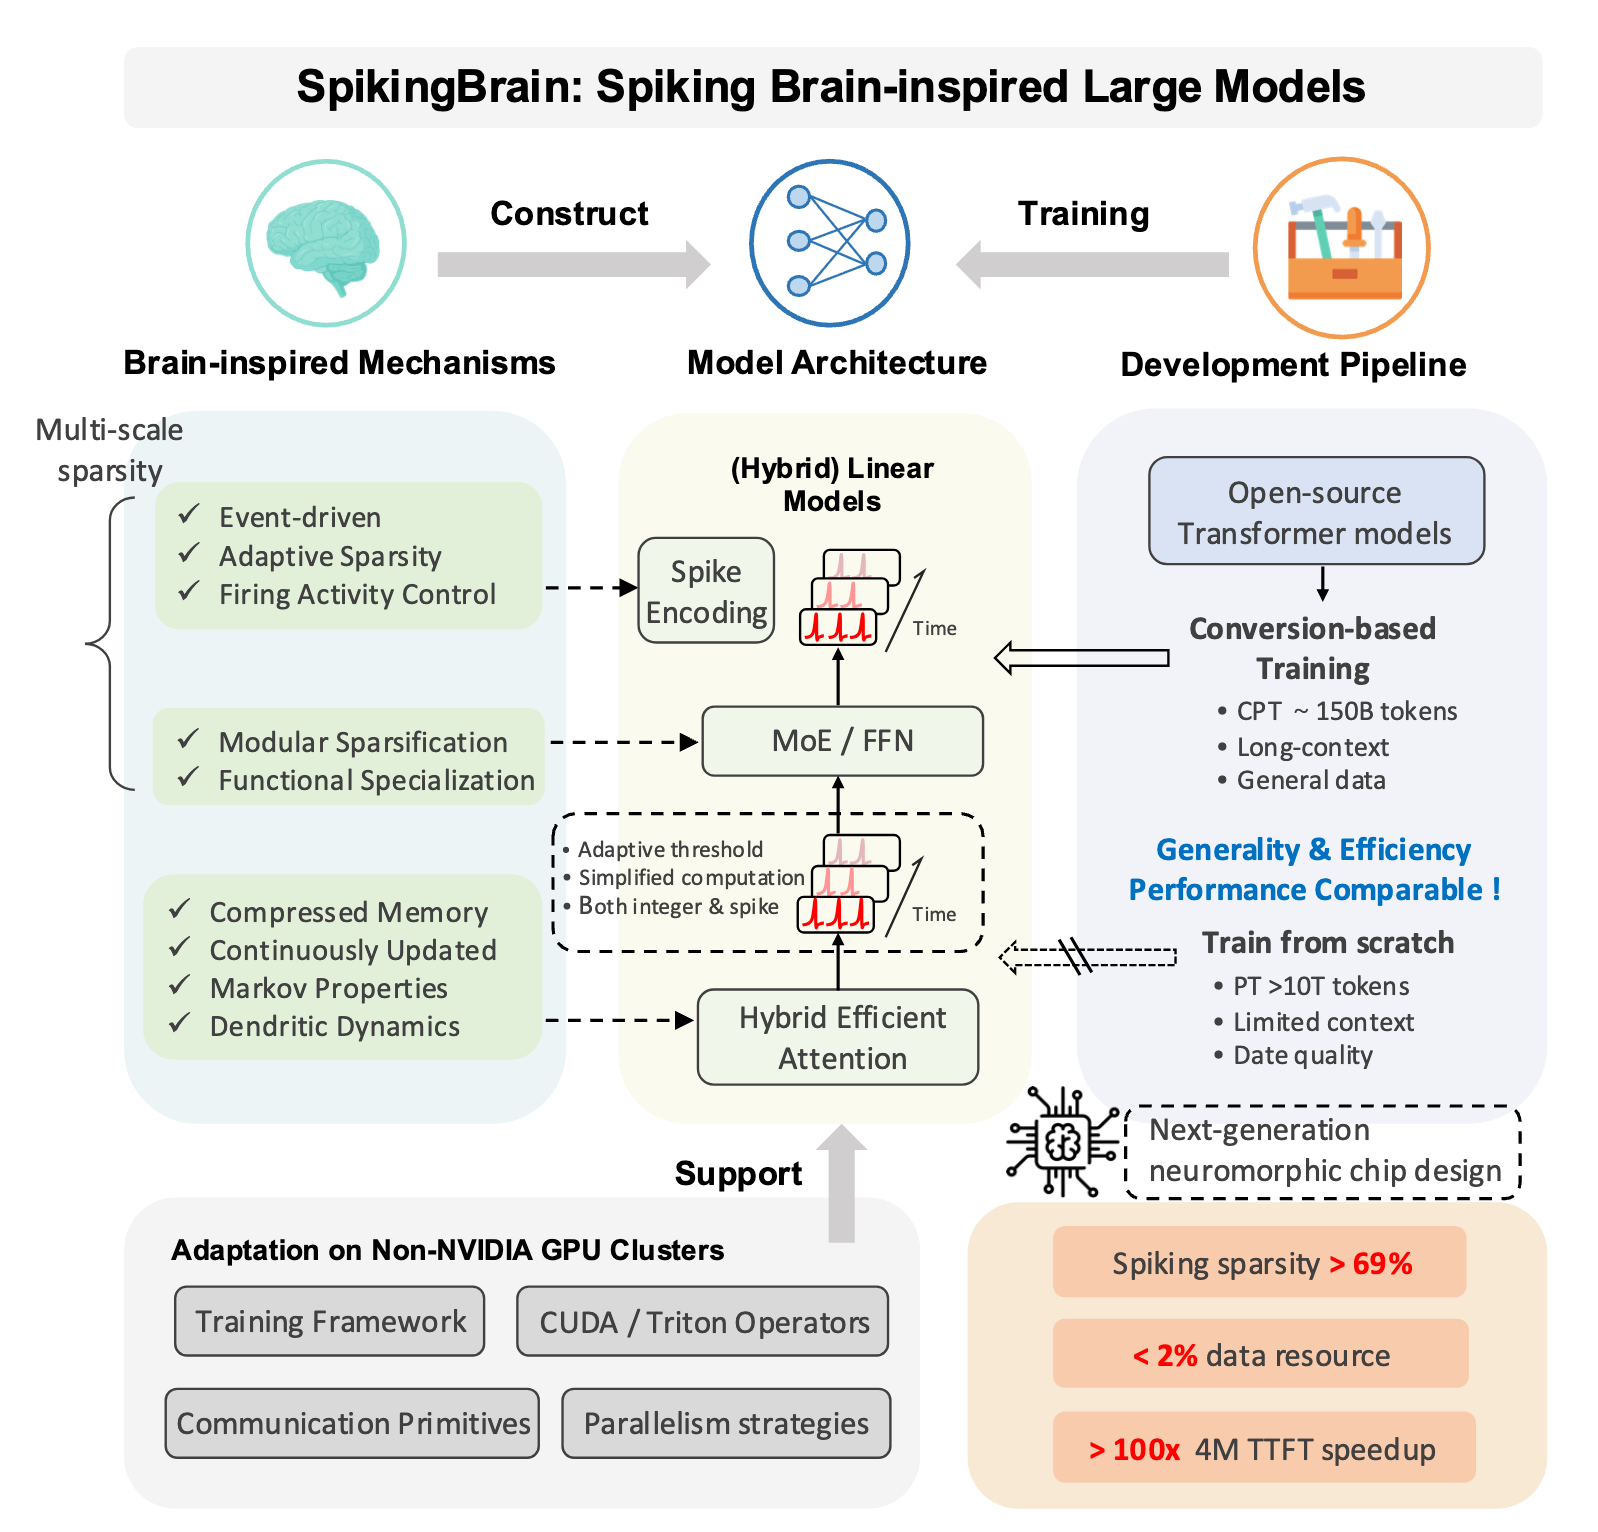
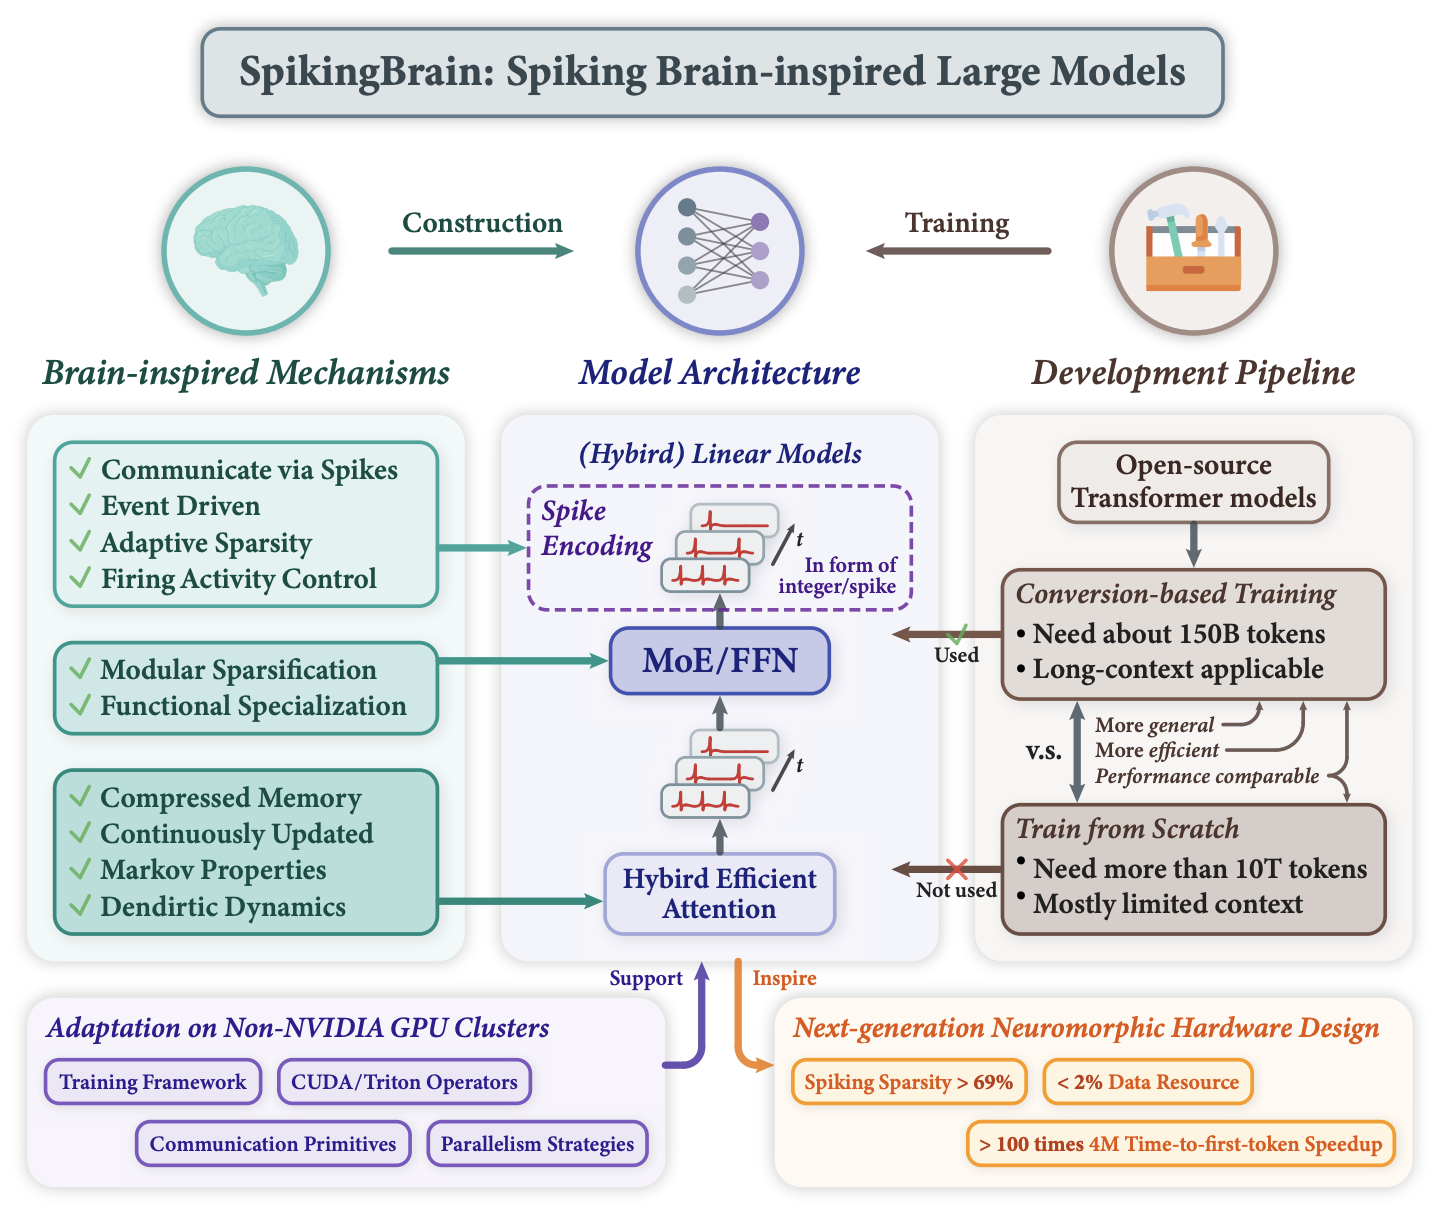
Update README.md

diff --git a/README.md b/README.md
@@ -7,6 +7,14 @@
 
 ---
 
+## 📢 News
+
+- **2026-04**: 🚀 We released **SpikingBrain2.0**, with comprehensive upgrades to architecture and training token efficiency, along with broader support for downstream applications. Check it out at [BICLab/SpikingBrain2.0](https://github.com/BICLab/SpikingBrain2.0).
+- **2026-03**: 🎉 Our paper "SpikingBrain: Spiking Brain-inspired Large Models" has been accepted by **TMLR 2026**!
+- **2025-09**: SpikingBrain repository is created.
+
+---
+
 ## About SpikingBrain
 
 Inspired by brain mechanisms, **SpikingBrain** integrates **hybrid efficient attention**, **MoE modules**, and **spike encoding** into its architecture, supported by a universal conversion pipeline compatible with the open-source model ecosystem. This enables continual pre-training with less than 2\% of the data while achieving performance comparable to mainstream open-source models. We further adapt frameworks, operators, parallel strategies, and communication primitives for **non-NVIDIA (MetaX) clusters**, ensuring stable large-scale training and inference. SpikingBrain achieves over 100× speedup in TTFT for 4M-token sequences, while spiking delivers over 69\% sparsity at the micro level. Combined with macro-level MoE sparsity, these advances provide valuable guidance for the design of next-generation neuromorphic chips.
@@ -152,8 +160,8 @@ If you find our work useful, please consider citing **SpikingBrain**:
 
 ```bibtex
 @article{pan2025spikingbrain,
-  title={SpikingBrain Technical Report: Spiking Brain-inspired Large Models},
-  author={Pan, Yuqi and Feng, Yupeng and Zhuang, Jinghao and Ding, Siyu and Liu, Zehao and Sun, Bohan and Chou, Yuhong and Xu, Han and Qiu, Xuerui and Deng, Anlin and others},
+  title={SpikingBrain: Spiking Brain-inspired Large Models},
+  author={Pan, Yuqi and Feng, Yupeng and Zhuang, Jinghao and Ding, Siyu and Xu, Han and Liu, Zehao and Sun, Bohan and Chou, Yuhong and Qiu, Xuerui and Deng, Anlin and others},
   journal={arXiv preprint arXiv:2509.05276},
   year={2025}
 }